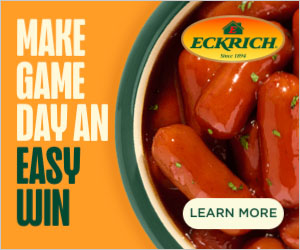
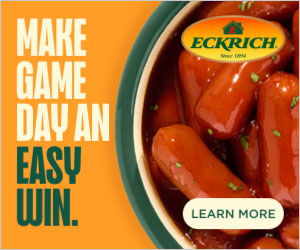
new update

Changed region(s): [[0.06, 0.056, 0.39, 0.924], [0.63, 0.812, 0.93, 0.896]]

diff --git a/Eckrich_Smokies_Banners_v1_300x250/styles.css b/Eckrich_Smokies_Banners_v1_300x250/styles.css
@@ -5,7 +5,10 @@
 
 @font-face {
   font-family: "RockidsSofted Reg";
-  src: url("./fonts/RockidsSofted-Regular.woff2");
+  src: url("./fonts/subset-RockidsDisplay-Regular.woff2") format("woff2");
+  font-weight: normal;
+  font-style: normal;
+  font-display: swap;
 }
 
 body,
@@ -96,8 +99,8 @@ img {
 #text_holder {
   color: #fdf9da;
   font-family: "RockidsSofted Reg";
-  font-size: 52.5px;
-  line-height: 0.81;
+  font-size: 53.2px;
+  line-height: 0.80;
   letter-spacing: -0.1px;
   left: 16px;
   top: 22px;
@@ -120,7 +123,7 @@ img {
   height: 31px;
   right: 16px;
   bottom: 21px;
-  font-size: 12.5px;
+  font-size: 12.1px;
   border-radius: 50px;
   color: #105742;
   background-color: #fdf9da;

diff --git a/Eckrich_Smokies_Banners_v1_728x90/index.html b/Eckrich_Smokies_Banners_v1_728x90/index.html
@@ -24,7 +24,7 @@
           <span>MAKE</span>  <span>GAME</span> <span>DAY</span> <br><span>AN</span>
         </div>
         <div id="h2" class="hidden pos-abs">
-          <span>EASY</span> <span>WIN</span>
+          <span>EASY</span> <span>WIN.</span>
         </div>
         
       </div>

diff --git a/Eckrich_Smokies_Banners_v1_728x90/styles.css b/Eckrich_Smokies_Banners_v1_728x90/styles.css
@@ -5,7 +5,10 @@
 
 @font-face {
   font-family: "RockidsSofted Reg";
-  src: url("./fonts/RockidsSofted-Regular.woff2");
+  src: url("./fonts/subset-RockidsDisplay-Regular.woff2") format("woff2");
+  font-weight: normal;
+  font-style: normal;
+  font-display: swap;
 }
 
 body,

diff --git a/Eckrich_Smokies_Banners_v1_300x250/index.html b/Eckrich_Smokies_Banners_v1_300x250/index.html
@@ -25,9 +25,8 @@
         MAKE <br>GAME <br>DAY AN
       </div>
       <div id="h2" class="hidden">
-        EASY <br>WIN
+        EASY <br>WIN.
       </div>
-     
     </div>
     <div id="cta" class="hidden pos-abs"><span>LEARN MORE</span></div>
     </div>
